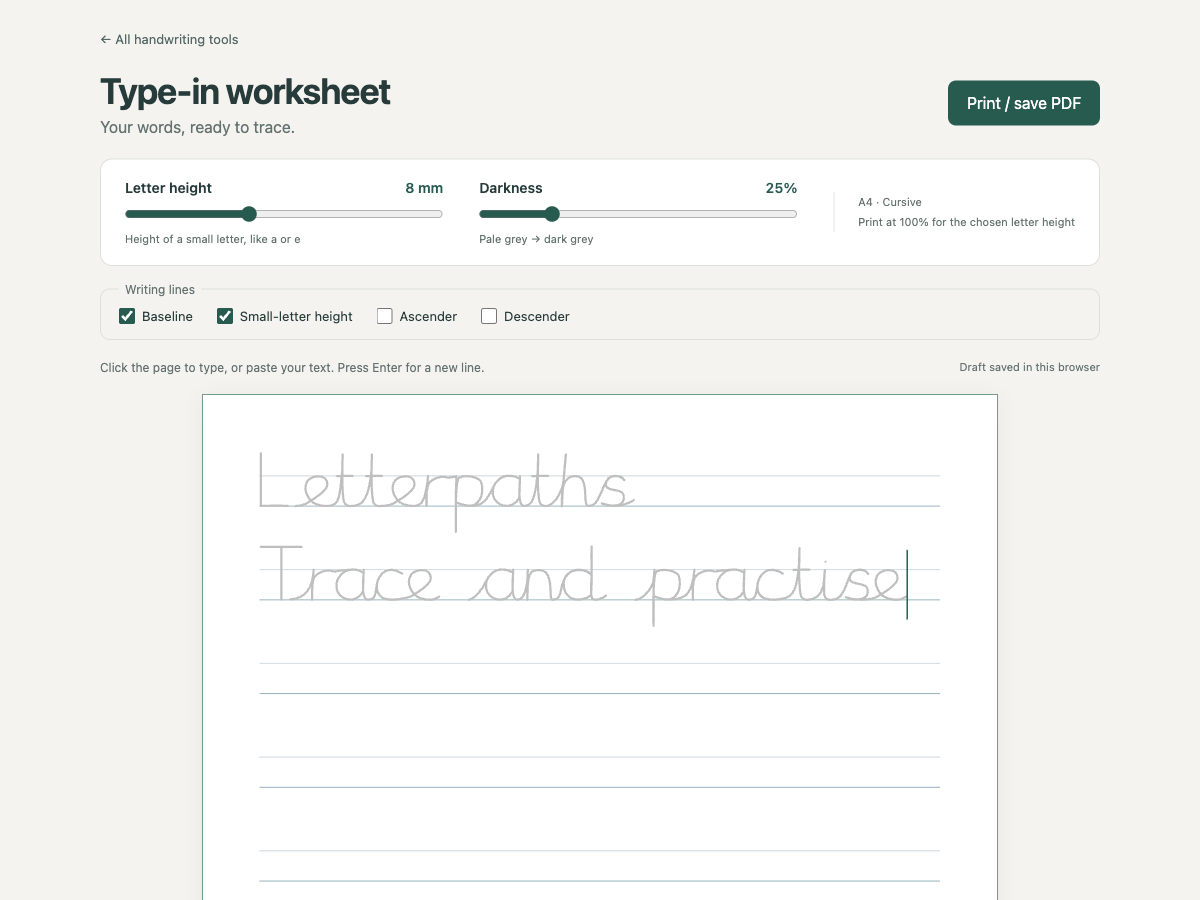
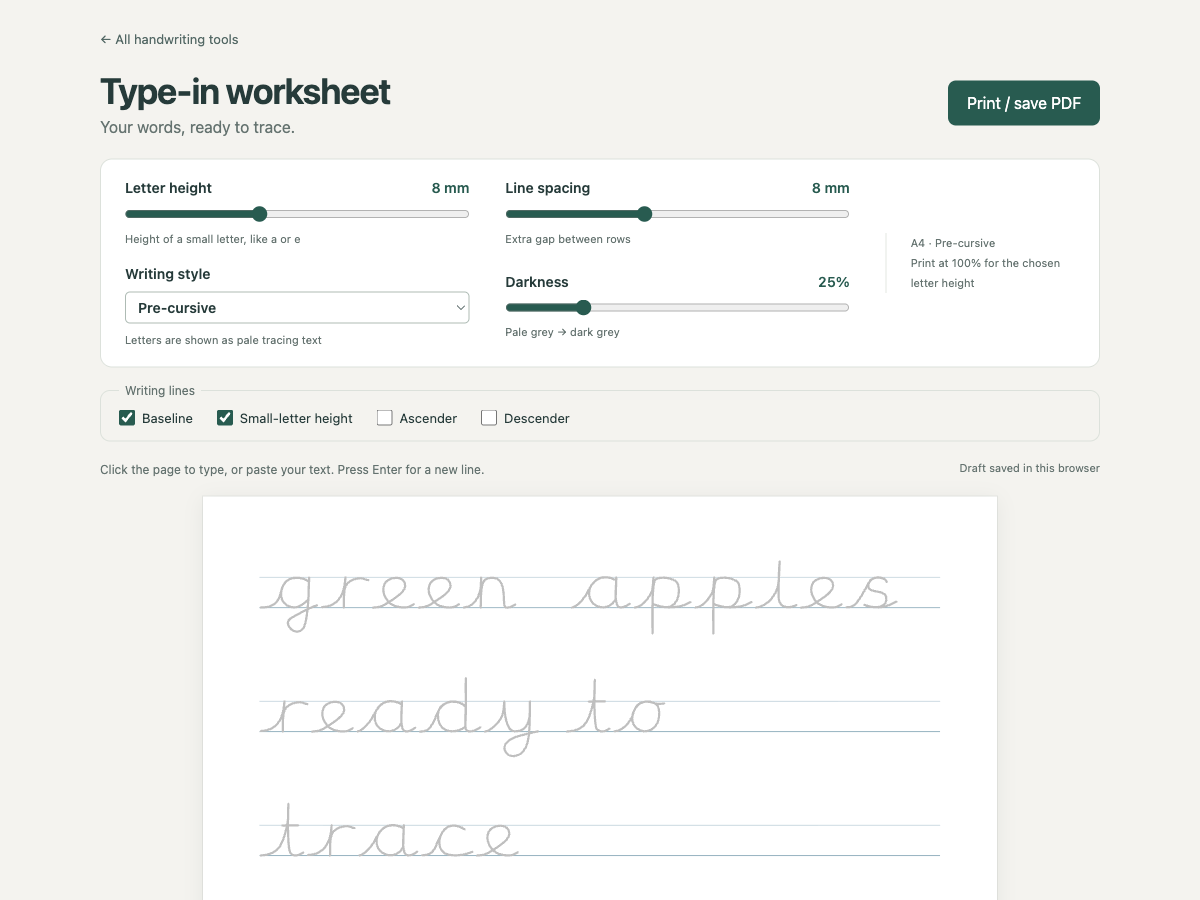
Add type-in worksheet styles and line spacing

diff --git a/packages/writing_app/src/type-in-worksheet.ts b/packages/writing_app/src/type-in-worksheet.ts
@@ -1,7 +1,9 @@
 import "./type-in-worksheet.css";
 import {
   CONTENT_WIDTH, MARGIN, PAGE_HEIGHT, PAGE_WIDTH,
-  caretLocation, layoutWorksheet, nearestStop, type WorksheetLayout
+  caretLocation, layoutWorksheet, nearestStop,
+  type TypeInWorksheetStyle,
+  type WorksheetLayout
 } from "./type-in-worksheet-layout";
 
 const app = document.querySelector<HTMLDivElement>("#app");
@@ -20,11 +22,23 @@ app.innerHTML = `
         <input id="letter-height" type="range" min="3" max="16" step="0.5" value="8" aria-describedby="height-help" />
         <span id="height-help">Height of a small letter, like a or e</span>
       </label>
+      <label for="line-spacing">Line spacing <output id="line-spacing-value" for="line-spacing">0 mm</output>
+        <input id="line-spacing" type="range" min="0" max="20" step="0.5" value="0" aria-describedby="line-spacing-help" />
+        <span id="line-spacing-help">Extra gap between rows</span>
+      </label>
+      <label for="writing-style">Writing style
+        <select id="writing-style">
+          <option value="cursive" selected>Cursive</option>
+          <option value="pre-cursive">Pre-cursive</option>
+          <option value="print">Print</option>
+        </select>
+        <span>Letters are shown as pale tracing text</span>
+      </label>
       <label for="trace-darkness">Darkness <output id="darkness-value" for="trace-darkness">25%</output>
         <input id="trace-darkness" type="range" min="10" max="80" step="5" value="25" />
         <span>Pale grey → dark grey</span>
       </label>
-      <p class="writer-paper-note">A4 · Cursive<br />Print at 100% for the chosen letter height</p>
+      <p class="writer-paper-note" id="paper-note">A4 · Cursive<br />Print at 100% for the chosen letter height</p>
     </section>
     <fieldset class="writer-guides"><legend>Writing lines</legend>
       <label><input type="checkbox" id="guide-baseline" checked /> Baseline</label>
@@ -43,9 +57,13 @@ app.innerHTML = `
 
 const editor = document.querySelector<HTMLTextAreaElement>("#worksheet-text")!;
 const height = document.querySelector<HTMLInputElement>("#letter-height")!;
+const lineSpacing = document.querySelector<HTMLInputElement>("#line-spacing")!;
+const writingStyle = document.querySelector<HTMLSelectElement>("#writing-style")!;
 const darkness = document.querySelector<HTMLInputElement>("#trace-darkness")!;
 const heightValue = document.querySelector<HTMLOutputElement>("#height-value")!;
+const lineSpacingValue = document.querySelector<HTMLOutputElement>("#line-spacing-value")!;
 const darknessValue = document.querySelector<HTMLOutputElement>("#darkness-value")!;
+const paperNote = document.querySelector<HTMLParagraphElement>("#paper-note")!;
 const printButton = document.querySelector<HTMLButtonElement>("#print-worksheet")!;
 const status = document.querySelector<HTMLSpanElement>("#draft-status")!;
 const viewport = document.querySelector<HTMLDivElement>(".writer-viewport")!;
@@ -65,10 +83,16 @@ let saveTimer: ReturnType<typeof setTimeout> | undefined;
 
 const validSetting = (value: unknown, min: number, max: number): value is number =>
   typeof value === "number" && Number.isFinite(value) && value >= min && value <= max;
+const validStyle = (value: unknown): value is TypeInWorksheetStyle =>
+  value === "cursive" || value === "pre-cursive" || value === "print";
+const styleLabel = (style: TypeInWorksheetStyle) =>
+  style === "pre-cursive" ? "Pre-cursive" : style[0]!.toUpperCase() + style.slice(1);
 try {
   const saved = JSON.parse(localStorage.getItem(storageKey) ?? "null");
   if (saved && typeof saved.text === "string") editor.value = saved.text;
   if (saved && validSetting(saved.height, 3, 16)) height.value = String(saved.height);
+  if (saved && validSetting(saved.lineSpacing, 0, 20)) lineSpacing.value = String(saved.lineSpacing);
+  if (saved && validStyle(saved.style)) writingStyle.value = saved.style;
   if (saved && validSetting(saved.darkness, 10, 80)) darkness.value = String(saved.darkness);
   for (const name of guideNames) {
     if (typeof saved?.guides?.[name] === "boolean") guideInputs[name].checked = saved.guides[name];
@@ -80,7 +104,11 @@ function saveDraft() {
   clearTimeout(saveTimer);
   try {
     localStorage.setItem(storageKey, JSON.stringify({
-      text: editor.value, height: Number(height.value), darkness: Number(darkness.value),
+      text: editor.value,
+      height: Number(height.value),
+      lineSpacing: Number(lineSpacing.value),
+      style: writingStyle.value,
+      darkness: Number(darkness.value),
       guides: Object.fromEntries(guideNames.map(name => [name, guideInputs[name].checked]))
     }));
     status.textContent = "Draft saved in this browser";
@@ -106,7 +134,10 @@ function renderGuides() {
 function renderWorksheet() {
   cancelAnimationFrame(renderRequest);
   renderRequest = 0;
-  layout = layoutWorksheet(editor.value, Number(height.value));
+  layout = layoutWorksheet(editor.value, Number(height.value), {
+    style: writingStyle.value as TypeInWorksheetStyle,
+    lineSpacing: Number(lineSpacing.value)
+  });
   const guides = renderGuides();
   const nextPages = Array.from({ length: layout.pageCount }, (_, page) => {
     const startRow = page * layout.rowsPerPage;
@@ -133,7 +164,9 @@ function applySettings() {
   const grey = Math.round(255 * (1 - Number(darkness.value) / 100));
   document.documentElement.style.setProperty("--trace-colour", `rgb(${grey}, ${grey}, ${grey})`);
   heightValue.value = `${height.value} mm`;
+  lineSpacingValue.value = `${lineSpacing.value} mm`;
   darknessValue.value = `${darkness.value}%`;
+  paperNote.innerHTML = `A4 · ${styleLabel(writingStyle.value as TypeInWorksheetStyle)}<br />Print at 100% for the chosen letter height`;
   renderWorksheet();
 }
 
@@ -293,9 +326,10 @@ for (const event of ["select", "keyup", "focus", "blur"] as const) editor.addEve
 document.addEventListener("selectionchange", () => {
   if (document.activeElement === editor) updateSelection();
 });
-for (const input of [height, darkness, ...Object.values(guideInputs)]) {
+for (const input of [height, lineSpacing, darkness, ...Object.values(guideInputs)]) {
   input.addEventListener("input", () => { applySettings(); saveDraft(); });
 }
+writingStyle.addEventListener("change", () => { applySettings(); saveDraft(); });
 window.addEventListener("pagehide", saveDraft);
 document.addEventListener("visibilitychange", () => { if (document.visibilityState === "hidden") saveDraft(); });
 window.addEventListener("beforeprint", renderWorksheet);

diff --git a/packages/writing_app/src/type-in-worksheet-layout.ts b/packages/writing_app/src/type-in-worksheet-layout.ts
@@ -1,4 +1,8 @@
-import { buildHandwritingPath, lettersByVariantId } from "letterpaths";
+import {
+  buildHandwritingPath,
+  lettersByVariantId,
+  type HandwritingStyle
+} from "letterpaths";
 import { buildPathD } from "./shared";
 
 export const PAGE_WIDTH = 210;
@@ -9,6 +13,11 @@ const UNIT = 380;
 const STROKE = 28;
 
 type Shape = { markup: string; width: number; offsets: number[] };
+export type TypeInWorksheetStyle = Extract<HandwritingStyle, "cursive" | "pre-cursive" | "print">;
+export type TypeInWorksheetLayoutOptions = {
+  style?: TypeInWorksheetStyle;
+  lineSpacing?: number;
+};
 export type CaretStop = { index: number; x: number };
 export type WorksheetLine = { markup: string; stops: CaretStop[] };
 export type WorksheetLayout = {
@@ -25,9 +34,9 @@ const escapeText = (text: string) => text.replace(/[&<>"']/g, (char) => ({
   "&": "&amp;", "<": "&lt;", ">": "&gt;", '"': "&quot;", "'": "&#39;"
 }[char]!));
 
-function buildLetters(text: string) {
+function buildLetters(text: string, style: TypeInWorksheetStyle) {
   return buildHandwritingPath(text, {
-    style: "cursive", letters: lettersByVariantId,
+    style, letters: lettersByVariantId,
     targetGuides: { baseline: 0, xHeight: -UNIT },
     keepInitialLeadIn: true, keepFinalLeadOut: true
   });
@@ -35,8 +44,9 @@ function buildLetters(text: string) {
 
 // Cache geometry at a fixed x-height. Changing height or darkness does not
 // rebuild Beziers; editing only generates shapes for newly encountered words.
-function shapeWord(text: string): Shape {
-  const cached = shapes.get(text);
+function shapeWord(text: string, style: TypeInWorksheetStyle): Shape {
+  const cacheKey = `${style}\u0000${text}`;
+  const cached = shapes.get(cacheKey);
   if (cached) return cached;
   let x = 0;
   let markup = "";
@@ -44,7 +54,7 @@ function shapeWord(text: string): Shape {
   for (const match of text.matchAll(/[A-Za-z]+|[^A-Za-z]/gu)) {
     const part = match[0];
     if (/^[A-Za-z]+$/.test(part)) {
-      const path = buildLetters(part);
+      const path = buildLetters(part, style);
       const shift = STROKE / 2 - path.bounds.minX;
       const width = path.bounds.maxX - path.bounds.minX + STROKE;
       markup += `<g transform="translate(${x + shift},0)">`;
@@ -60,7 +70,7 @@ function shapeWord(text: string): Shape {
         } else if (/[a-z]/.test(part[i]) && /[A-Z]/.test(part[i - 1])) {
           boundary = (path.capitalKerningMetrics?.[capitalIndex++]?.actualNextLeftSidebearingX ?? 0) + shift;
         } else {
-          const prefix = buildLetters(part.slice(0, i));
+          const prefix = buildLetters(part.slice(0, i), style);
           boundary = prefix.bounds.maxX + shift;
         }
         offsets.push(Math.max(offsets[offsets.length - 1], x + Math.min(width, boundary)));
@@ -79,13 +89,17 @@ function shapeWord(text: string): Shape {
   }
   const shape = { markup, width: x, offsets };
   if (shapes.size >= 512) shapes.delete(shapes.keys().next().value!);
-  shapes.set(text, shape);
+  shapes.set(cacheKey, shape);
   return shape;
 }
 
-export function layoutWorksheet(text: string, height: number): WorksheetLayout {
+export function layoutWorksheet(
+  text: string,
+  height: number,
+  { style = "cursive", lineSpacing = 0 }: TypeInWorksheetLayoutOptions = {}
+): WorksheetLayout {
   const scale = height / UNIT;
-  const rowPitch = height * 3.1;
+  const rowPitch = height * 3.1 + Math.max(0, lineSpacing);
   const firstBaseline = MARGIN + height * 1.8;
   const rowsPerPage = Math.max(1, Math.floor((PAGE_HEIGHT - MARGIN - firstBaseline - height * 0.8) / rowPitch) + 1);
   const lines: WorksheetLine[] = [];
@@ -97,7 +111,7 @@ export function layoutWorksheet(text: string, height: number): WorksheetLayout {
     x = 0;
   };
   const placeWord = (word: string, start: number) => {
-    const shape = shapeWord(word);
+    const shape = shapeWord(word, style);
     // The same index appears on both sides of a soft wrap. Caret lookup chooses
     // the following line while selection can still highlight the preceding one.
     line.stops.push({ index: start, x });
@@ -129,14 +143,14 @@ export function layoutWorksheet(text: string, height: number): WorksheetLayout {
         // Bound the amount of geometry work for a pasted unbroken string.
         const candidates = Array.from(remaining).slice(0, 96);
         const candidate = candidates.join("");
-        if (x > 0 && shapeWord(candidate).width * scale > CONTENT_WIDTH - x) newLine(start);
+        if (x > 0 && shapeWord(candidate, style).width * scale > CONTENT_WIDTH - x) newLine(start);
         let count = candidates.length;
-        if (shapeWord(candidate).width * scale > CONTENT_WIDTH - x) {
+        if (shapeWord(candidate, style).width * scale > CONTENT_WIDTH - x) {
           let low = 1;
           let high = count;
           while (low < high) {
             const mid = Math.ceil((low + high) / 2);
-            if (shapeWord(candidates.slice(0, mid).join("")).width * scale <= CONTENT_WIDTH - x) low = mid;
+            if (shapeWord(candidates.slice(0, mid).join(""), style).width * scale <= CONTENT_WIDTH - x) low = mid;
             else high = mid - 1;
           }
           count = low;

diff --git a/packages/writing_app/src/type-in-worksheet.css b/packages/writing_app/src/type-in-worksheet.css
@@ -19,13 +19,15 @@ p { margin: 0; }
 button { font: inherit; background: #285b50; color: white; border: 0; border-radius: 8px; padding: 13px 19px; cursor: pointer; white-space: nowrap; }
 button:hover { background: #1d493f; }
 button:disabled { opacity: 0.5; cursor: wait; }
-button:focus-visible, a:focus-visible, input:focus-visible { outline: 3px solid #a46b2d; outline-offset: 4px; }
-.writer-toolbar { display: flex; align-items: center; gap: 36px; background: white; border: 1px solid #dce1db; border-radius: 12px; padding: 20px 24px; }
-.writer-toolbar label { flex: 1; display: grid; grid-template-columns: 1fr auto; gap: 10px; font-size: 14px; font-weight: 600; }
+button:focus-visible, a:focus-visible, input:focus-visible, select:focus-visible { outline: 3px solid #a46b2d; outline-offset: 4px; }
+.writer-toolbar { display: grid; grid-template-columns: repeat(2, minmax(0, 1fr)) minmax(150px, 0.55fr); align-items: center; gap: 20px 36px; background: white; border: 1px solid #dce1db; border-radius: 12px; padding: 20px 24px; }
+.writer-toolbar label { display: grid; grid-template-columns: 1fr auto; gap: 10px; font-size: 14px; font-weight: 600; }
 .writer-toolbar output { font-variant-numeric: tabular-nums; color: #285b50; }
-.writer-toolbar input { width: 100%; margin: 0; accent-color: #285b50; grid-column: 1 / -1; cursor: pointer; }
+.writer-toolbar input, .writer-toolbar select { width: 100%; margin: 0; grid-column: 1 / -1; }
+.writer-toolbar input { accent-color: #285b50; cursor: pointer; }
+.writer-toolbar select { min-height: 32px; padding: 4px 8px; border: 1px solid #aebbb4; border-radius: 5px; background: white; color: #263b3a; font: inherit; cursor: pointer; }
 .writer-toolbar label span { grid-column: 1 / -1; font-size: 11px; font-weight: 400; color: #657370; }
-.writer-paper-note { font-size: 11px; color: #657370; line-height: 1.8; border-left: 1px solid #e4e7e1; padding-left: 24px; }
+.writer-paper-note { grid-column: 3; grid-row: 1 / span 2; font-size: 11px; color: #657370; line-height: 1.8; border-left: 1px solid #e4e7e1; padding-left: 24px; }
 .writer-help { display: flex; flex-wrap: wrap; justify-content: space-between; gap: 8px; margin: 18px 0; color: #657370; font-size: 12px; line-height: 1.6; }
 #draft-status { font-size: 11px; }
 .writer-guides { display: flex; flex-wrap: wrap; gap: 14px 24px; margin: 16px 0 0; padding: 12px 18px 15px; border: 1px solid #dce1db; border-radius: 10px; }
@@ -58,8 +60,8 @@ button:focus-visible, a:focus-visible, input:focus-visible { outline: 3px solid 
   .writer-heading { gap: 12px; }
   .writer-heading p { font-size: 13px; }
   button { font-size: 12px; padding: 12px; }
-  .writer-toolbar { padding: 16px; gap: 20px; flex-wrap: wrap; }
-  .writer-paper-note { width: 100%; border: 0; padding: 0; }
+  .writer-toolbar { grid-template-columns: 1fr; padding: 16px; gap: 20px; }
+  .writer-paper-note { grid-column: auto; grid-row: auto; width: 100%; border: 0; padding: 0; }
   .writer-paper-note { line-height: 1.6; }
 }
 

diff --git a/packages/writing_app/test/type-in-worksheet.test.ts b/packages/writing_app/test/type-in-worksheet.test.ts
@@ -22,6 +22,22 @@ test("letters render as paths and retain an insertion point for every character"
   }
 });
 
+test("styles, line spacing and repeated spaces are retained in the worksheet layout", () => {
+  const text = "cat  dog";
+  const compact = layoutWorksheet(text, 8);
+  const spacious = layoutWorksheet("cat\ndog", 8, { lineSpacing: 12 });
+  assert.equal(spacious.rowPitch, compact.rowPitch + 12);
+
+  for (const style of ["cursive", "pre-cursive", "print"] as const) {
+    const layout = layoutWorksheet(text, 8, { style });
+    assert.match(layout.lines[0]!.markup, /<path d="M /);
+    const stops = layout.lines[0]!.stops;
+    const firstSpace = stops.find(stop => stop.index === 4)!;
+    const secondSpace = stops.find(stop => stop.index === 5)!;
+    assert.ok(secondSpace.x > firstSpace.x, `${style} should retain both spaces`);
+  }
+});
+
 test("blank lines, indentation and a trailing newline survive layout", () => {
   const layout = layoutWorksheet("  cat\n\n dog\n", 8);
   assert.equal(layout.lines.length, 4);

diff --git a/packages/writing_app/src/freehand-tracing.ts b/packages/writing_app/src/freehand-tracing.ts
@@ -221,7 +221,7 @@ let lastPointerPoint: Point | null = null;
 let completedCheckpointCount = 0;
 let recordedErrors: number[] = [];
 
-const normalizeWordInput = (word: string): string => word.trim().replace(/\s+/g, " ");
+const normalizeWordInput = (word: string): string => word.replace(/\s/g, " ").trim();
 
 const getSliderValuePrecision = (input: HTMLInputElement): number => {
   if (input.step === "any" || input.step.length === 0) {

diff --git a/packages/letterpaths/src/layout/shared.ts b/packages/letterpaths/src/layout/shared.ts
@@ -92,7 +92,7 @@ export function buildStandaloneWord(
   for (let charIndex = 0; charIndex < text.length; charIndex += 1) {
     const rawChar = text[charIndex] ?? "";
     if (rawChar.trim() === "") {
-      cursorX = Math.max(rightSidebearingEdge, visibleRightEdge) + wordSpacing;
+      cursorX = Math.max(cursorX, rightSidebearingEdge, visibleRightEdge) + wordSpacing;
       hasPlacedLetter = false;
       continue;
     }

diff --git a/packages/writing_app/src/fading-practice.ts b/packages/writing_app/src/fading-practice.ts
@@ -544,7 +544,7 @@ function renderGlobalColorControl(
   `;
 }
 
-const normalizeText = (value: string): string => value.trim().replace(/\s+/g, " ");
+const normalizeText = (value: string): string => value.replace(/\s/g, " ").trim();
 
 const normalizeStyle = (value: string): PracticeStyle | null =>
   value === "cursive" || value === "pre-cursive" || value === "print" ? value : null;

diff --git a/packages/writing_app/src/guided-tracing.ts b/packages/writing_app/src/guided-tracing.ts
@@ -1016,7 +1016,7 @@ const rerenderCurrentWord = () => {
   renderWord(currentWord, currentWordIndex);
 };
 
-const normalizeWordInput = (word: string): string => word.trim().replace(/\s+/g, " ");
+const normalizeWordInput = (word: string): string => word.replace(/\s/g, " ").trim();
 
 const applyUrlSettings = () => {
   const params = new URLSearchParams(window.location.search);

diff --git a/packages/writing_app/src/cursive-worksheet-generator.ts b/packages/writing_app/src/cursive-worksheet-generator.ts
@@ -869,7 +869,7 @@ function renderAnnotationToggle(
   `;
 }
 
-const normalizeText = (value: string): string => value.trim().replace(/\s+/g, " ");
+const normalizeText = (value: string): string => value.replace(/\s/g, " ").trim();
 
 const escapeHtml = (value: string): string =>
   value

diff --git a/packages/letterpaths/src/layout/cursive.ts b/packages/letterpaths/src/layout/cursive.ts
@@ -102,7 +102,7 @@ export function joinCursiveWord(
       prevStandaloneChar = null;
       prevChar = null;
       hasPlacedLetter = false;
-      cursorX = rightEdge + wordSpacing;
+      cursorX = Math.max(cursorX, rightEdge) + wordSpacing;
       continue;
     }
 
